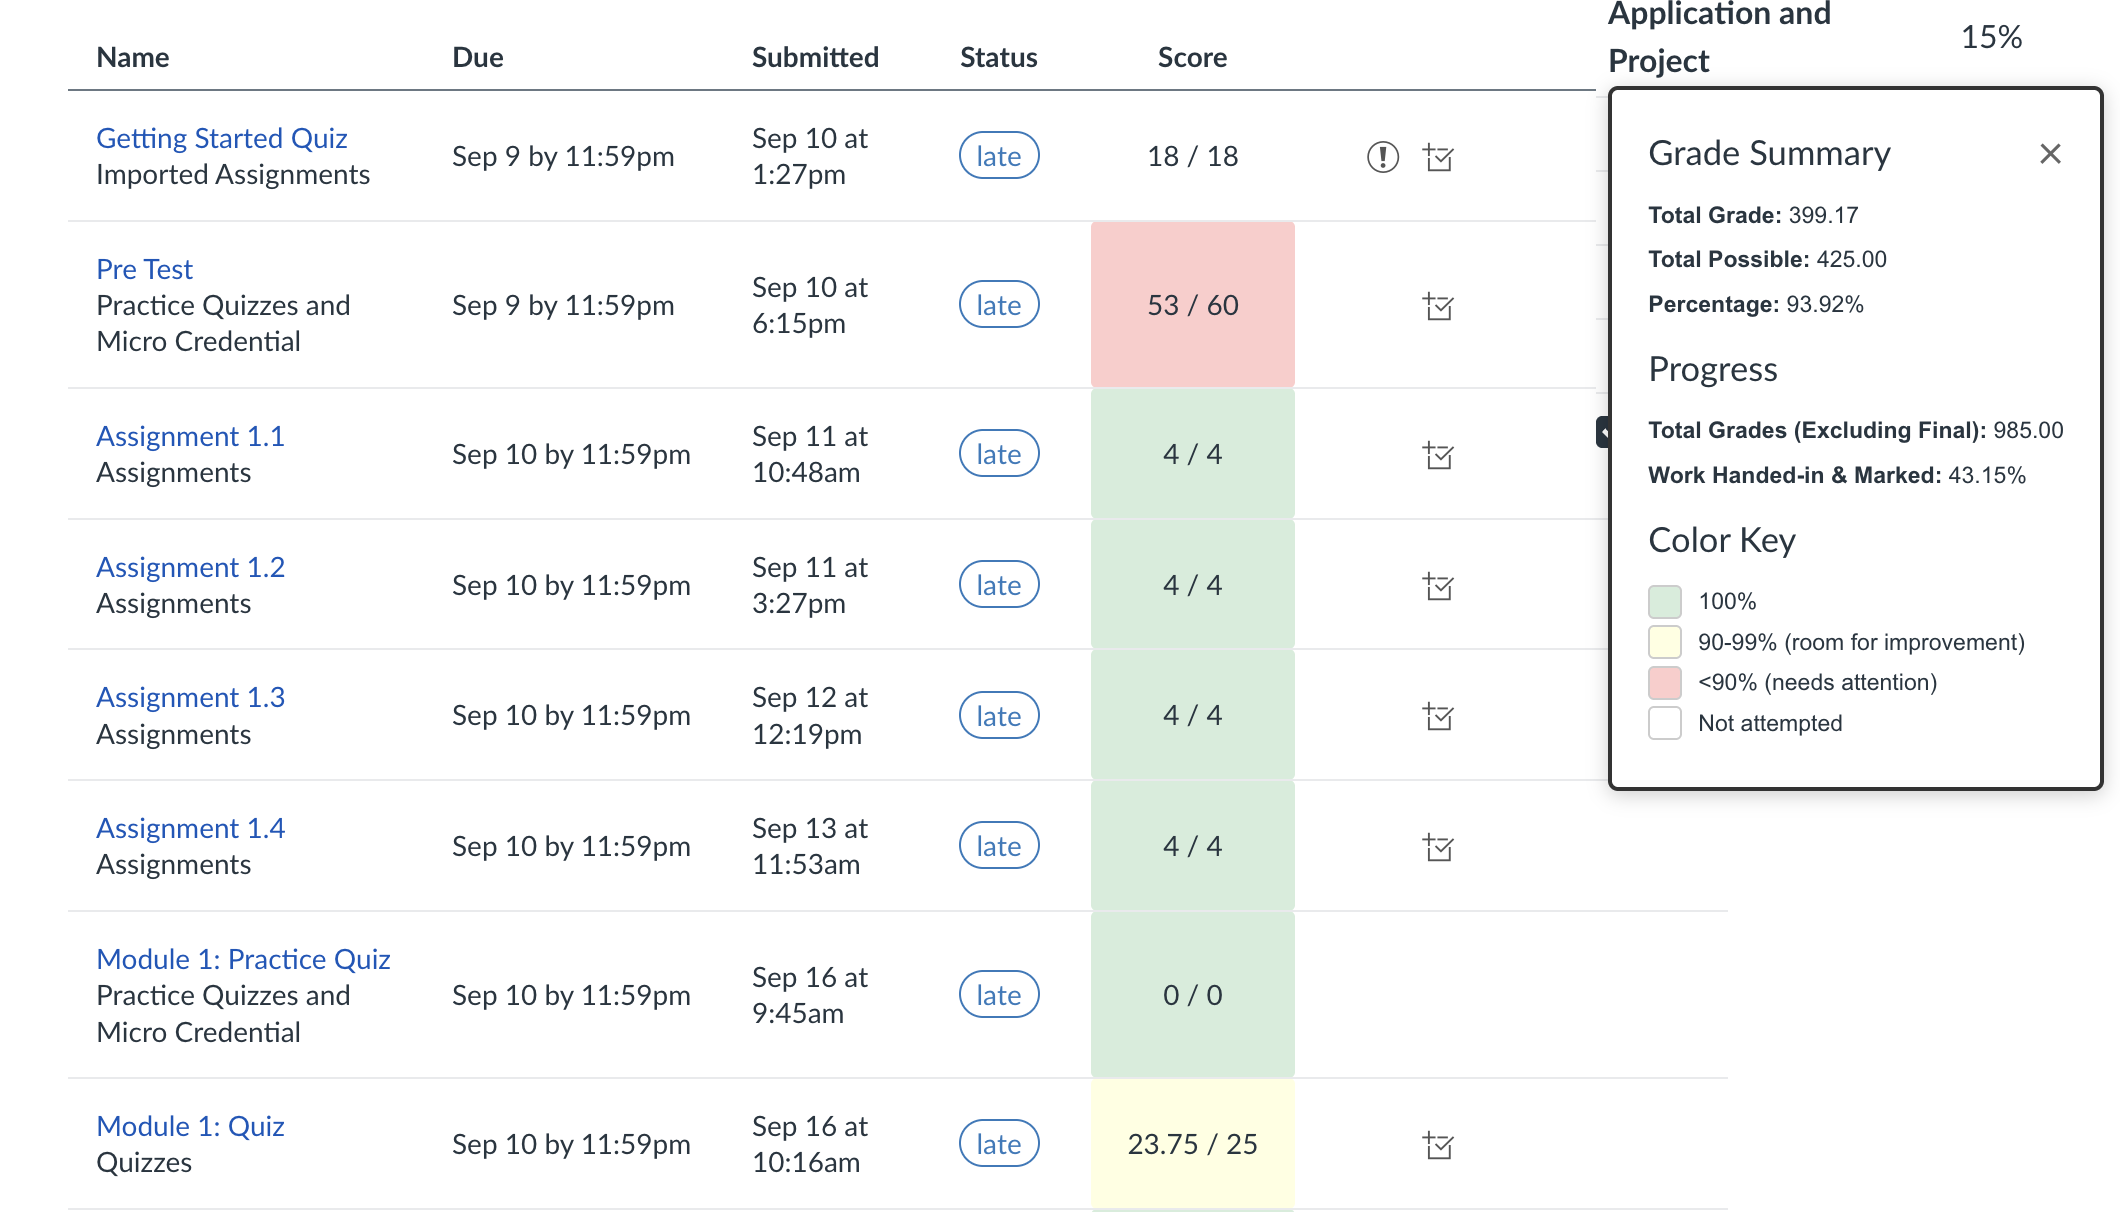
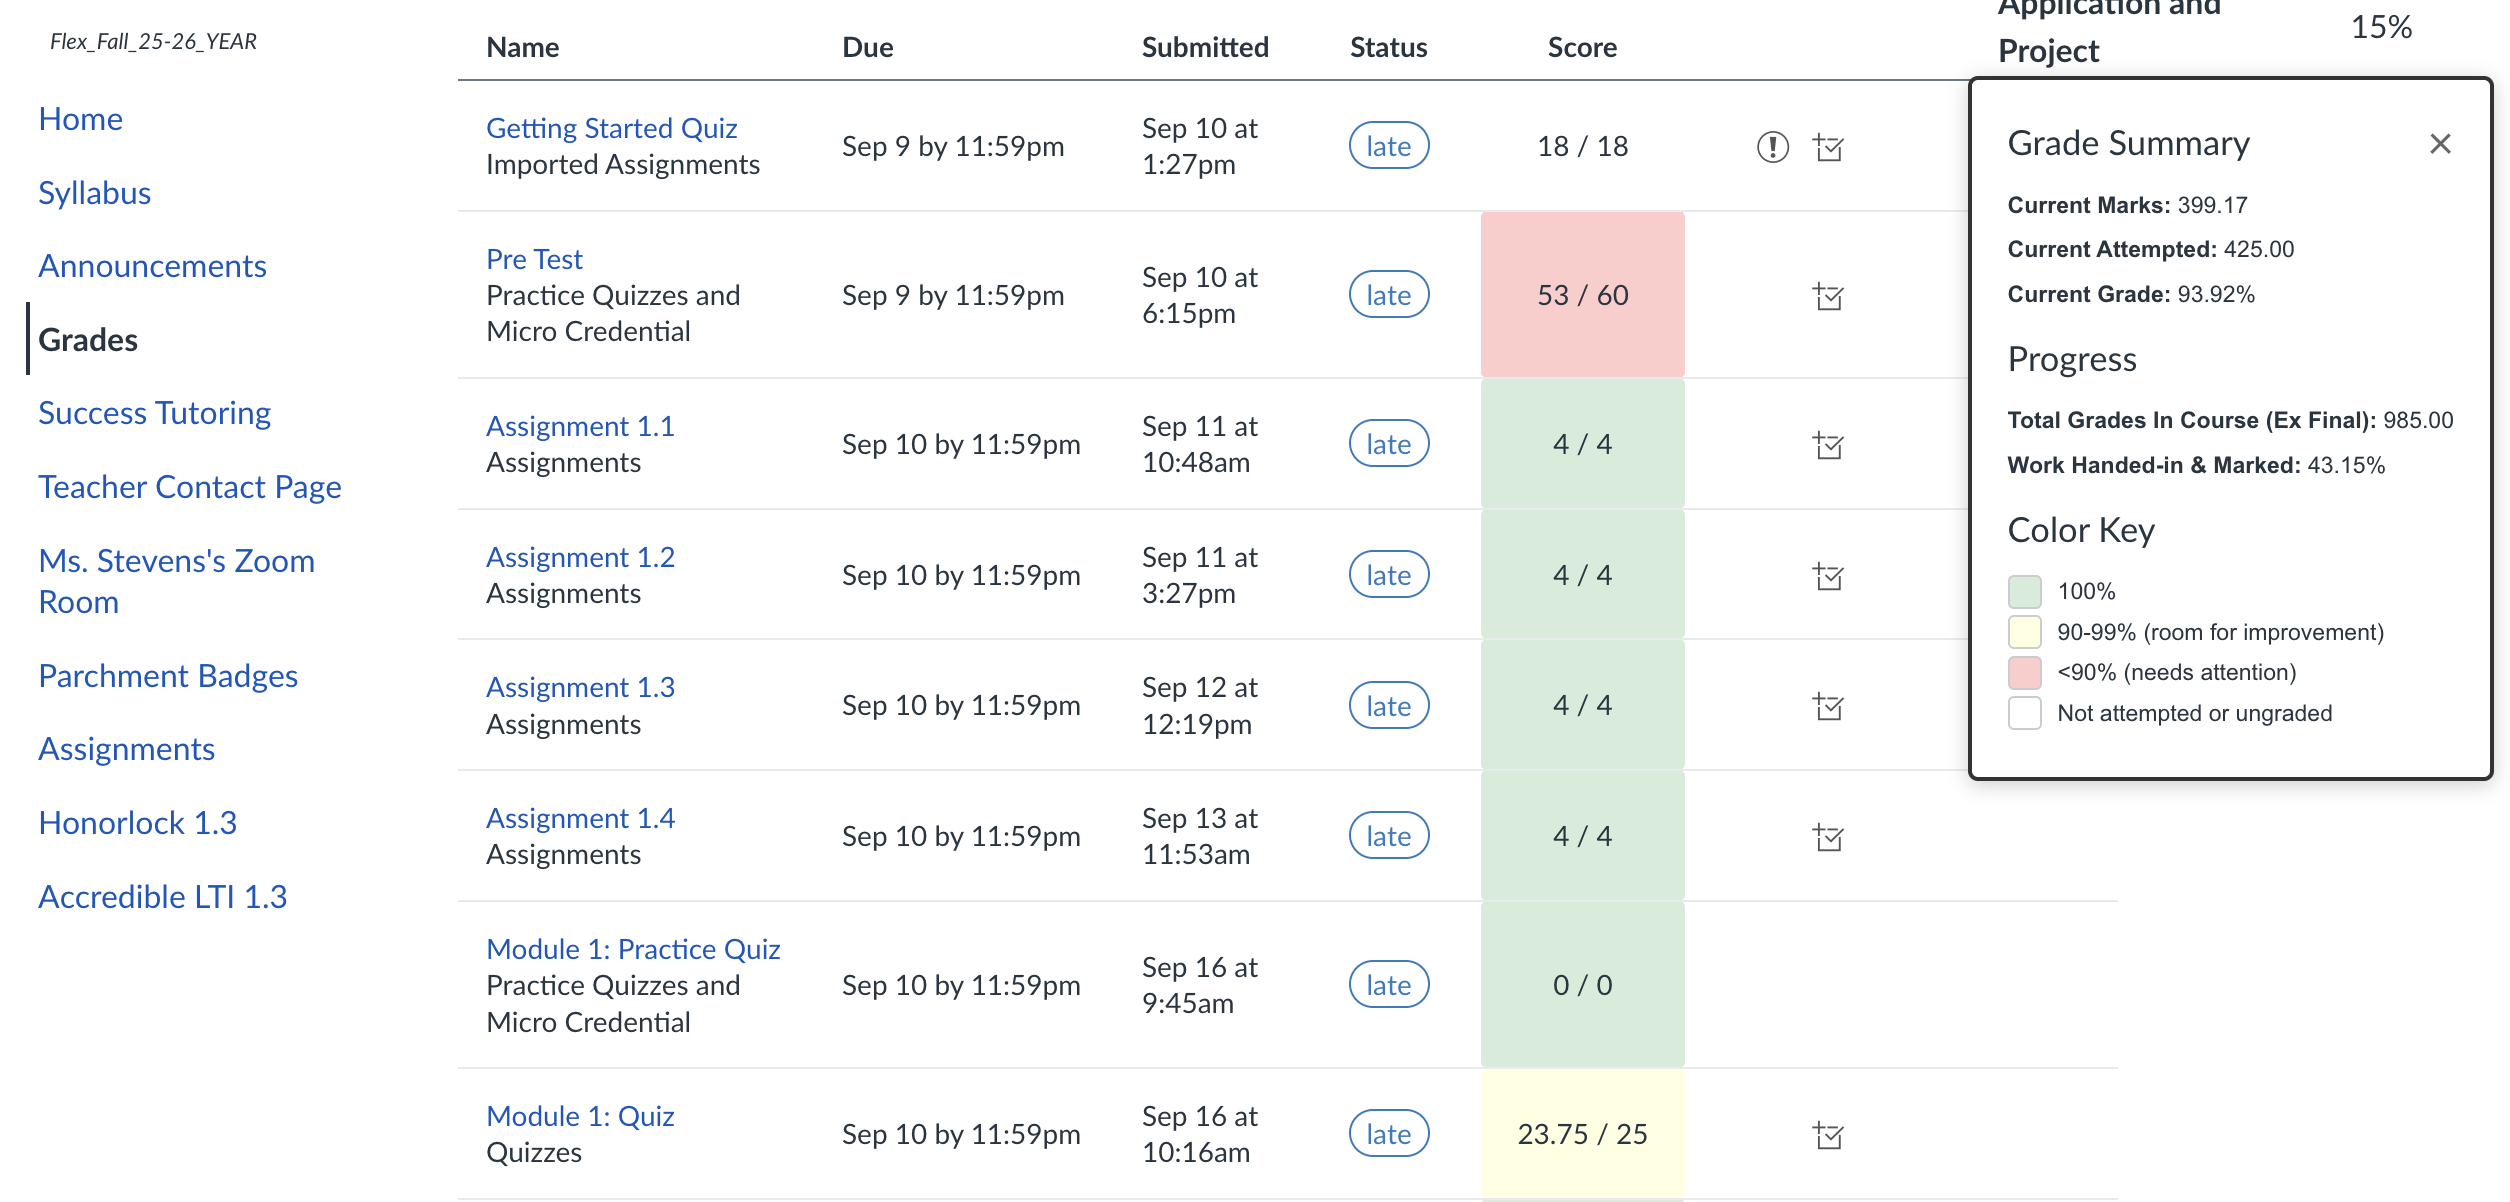
Improved labels.

diff --git a/Flex Grade Calculator.user.js b/Flex Grade Calculator.user.js
@@ -1,7 +1,7 @@
 // ==UserScript==
 // @name         Flex Grade Calculator
 // @namespace    http://tampermonkey.net/
-// @version      2.8
+// @version      2.9
 // @description  Calculate total grades from assignment scores
 // @author       Claude Sonnet 4.5 prompted by Hugh Emberson <hugh.emberson@gmail.com>
 // @match        https://byuohs.instructure.com/courses/*/grades*
@@ -12,7 +12,7 @@
     'use strict';
 
     // Log script version
-    console.log('Flex Grade Calculator v2.8');
+    console.log('Flex Grade Calculator v2.9');
 
     const showCountedGrades = true;
     const showUnderPerformance = true;
@@ -190,11 +190,11 @@
             <h3 style="margin: 0; font-size: 1.5em;">Grade Summary</h3>
             <button id="closeGradeSummary" style="background: none; border: none; font-size: 2em; cursor: pointer; padding: 0; margin-left: 15px; color: #666; line-height: 1;">&times;</button>
         </div>
-        <p style="margin: 5px 0;"><strong>Total Grade:</strong> ${totalGrade.toFixed(2)}</p>
-        <p style="margin: 5px 0;"><strong>Total Possible:</strong> ${totalCompleted.toFixed(2)}</p>
-        <p style="margin: 5px 0;"><strong>Percentage:</strong> ${totalCompleted > 0 ? ((totalGrade / totalCompleted) * 100).toFixed(2) + '%' : 'N/A'}</p>
+        <p style="margin: 5px 0;"><strong>Current Marks:</strong> ${totalGrade.toFixed(2)}</p>
+        <p style="margin: 5px 0;"><strong>Current Attempted:</strong> ${totalCompleted.toFixed(2)}</p>
+        <p style="margin: 5px 0;"><strong>Current Grade:</strong> ${totalCompleted > 0 ? ((totalGrade / totalCompleted) * 100).toFixed(2) + '%' : 'N/A'}</p>
         <h3 style="margin: 10px 0 10px 0; font-size: 1.5em;">Progress</h3>
-        <p style="margin: 5px 0;"><strong>Total Grades (Excluding Final):</strong> ${totalExcludingFinal.toFixed(2)}</p>
+        <p style="margin: 5px 0;"><strong>Total Grades In Course (Ex Final):</strong> ${totalExcludingFinal.toFixed(2)}</p>
         <p style="margin: 5px 0;"><strong>Work Handed-in &amp; Marked:</strong> ${totalExcludingFinal > 0 ? ((totalCompleted / totalExcludingFinal) * 100).toFixed(2) + '%' : 'N/A'}</p>
         <h3 style="margin: 10px 0 10px 0; font-size: 1.5em;">Color Key</h3>
 
@@ -213,7 +213,7 @@
             </div>
             <div style="display: flex; align-items: center; margin: 3px 0;">
                 <span style="display: inline-block; width: 15px; height: 15px; background-color: #ffffff; border: 1px solid #ccc; border-radius: 3px; margin-right: 8px;"></span>
-                <span>Not attempted</span>
+                <span>Not attempted or ungraded</span>
             </div>
         </div>
     `;
